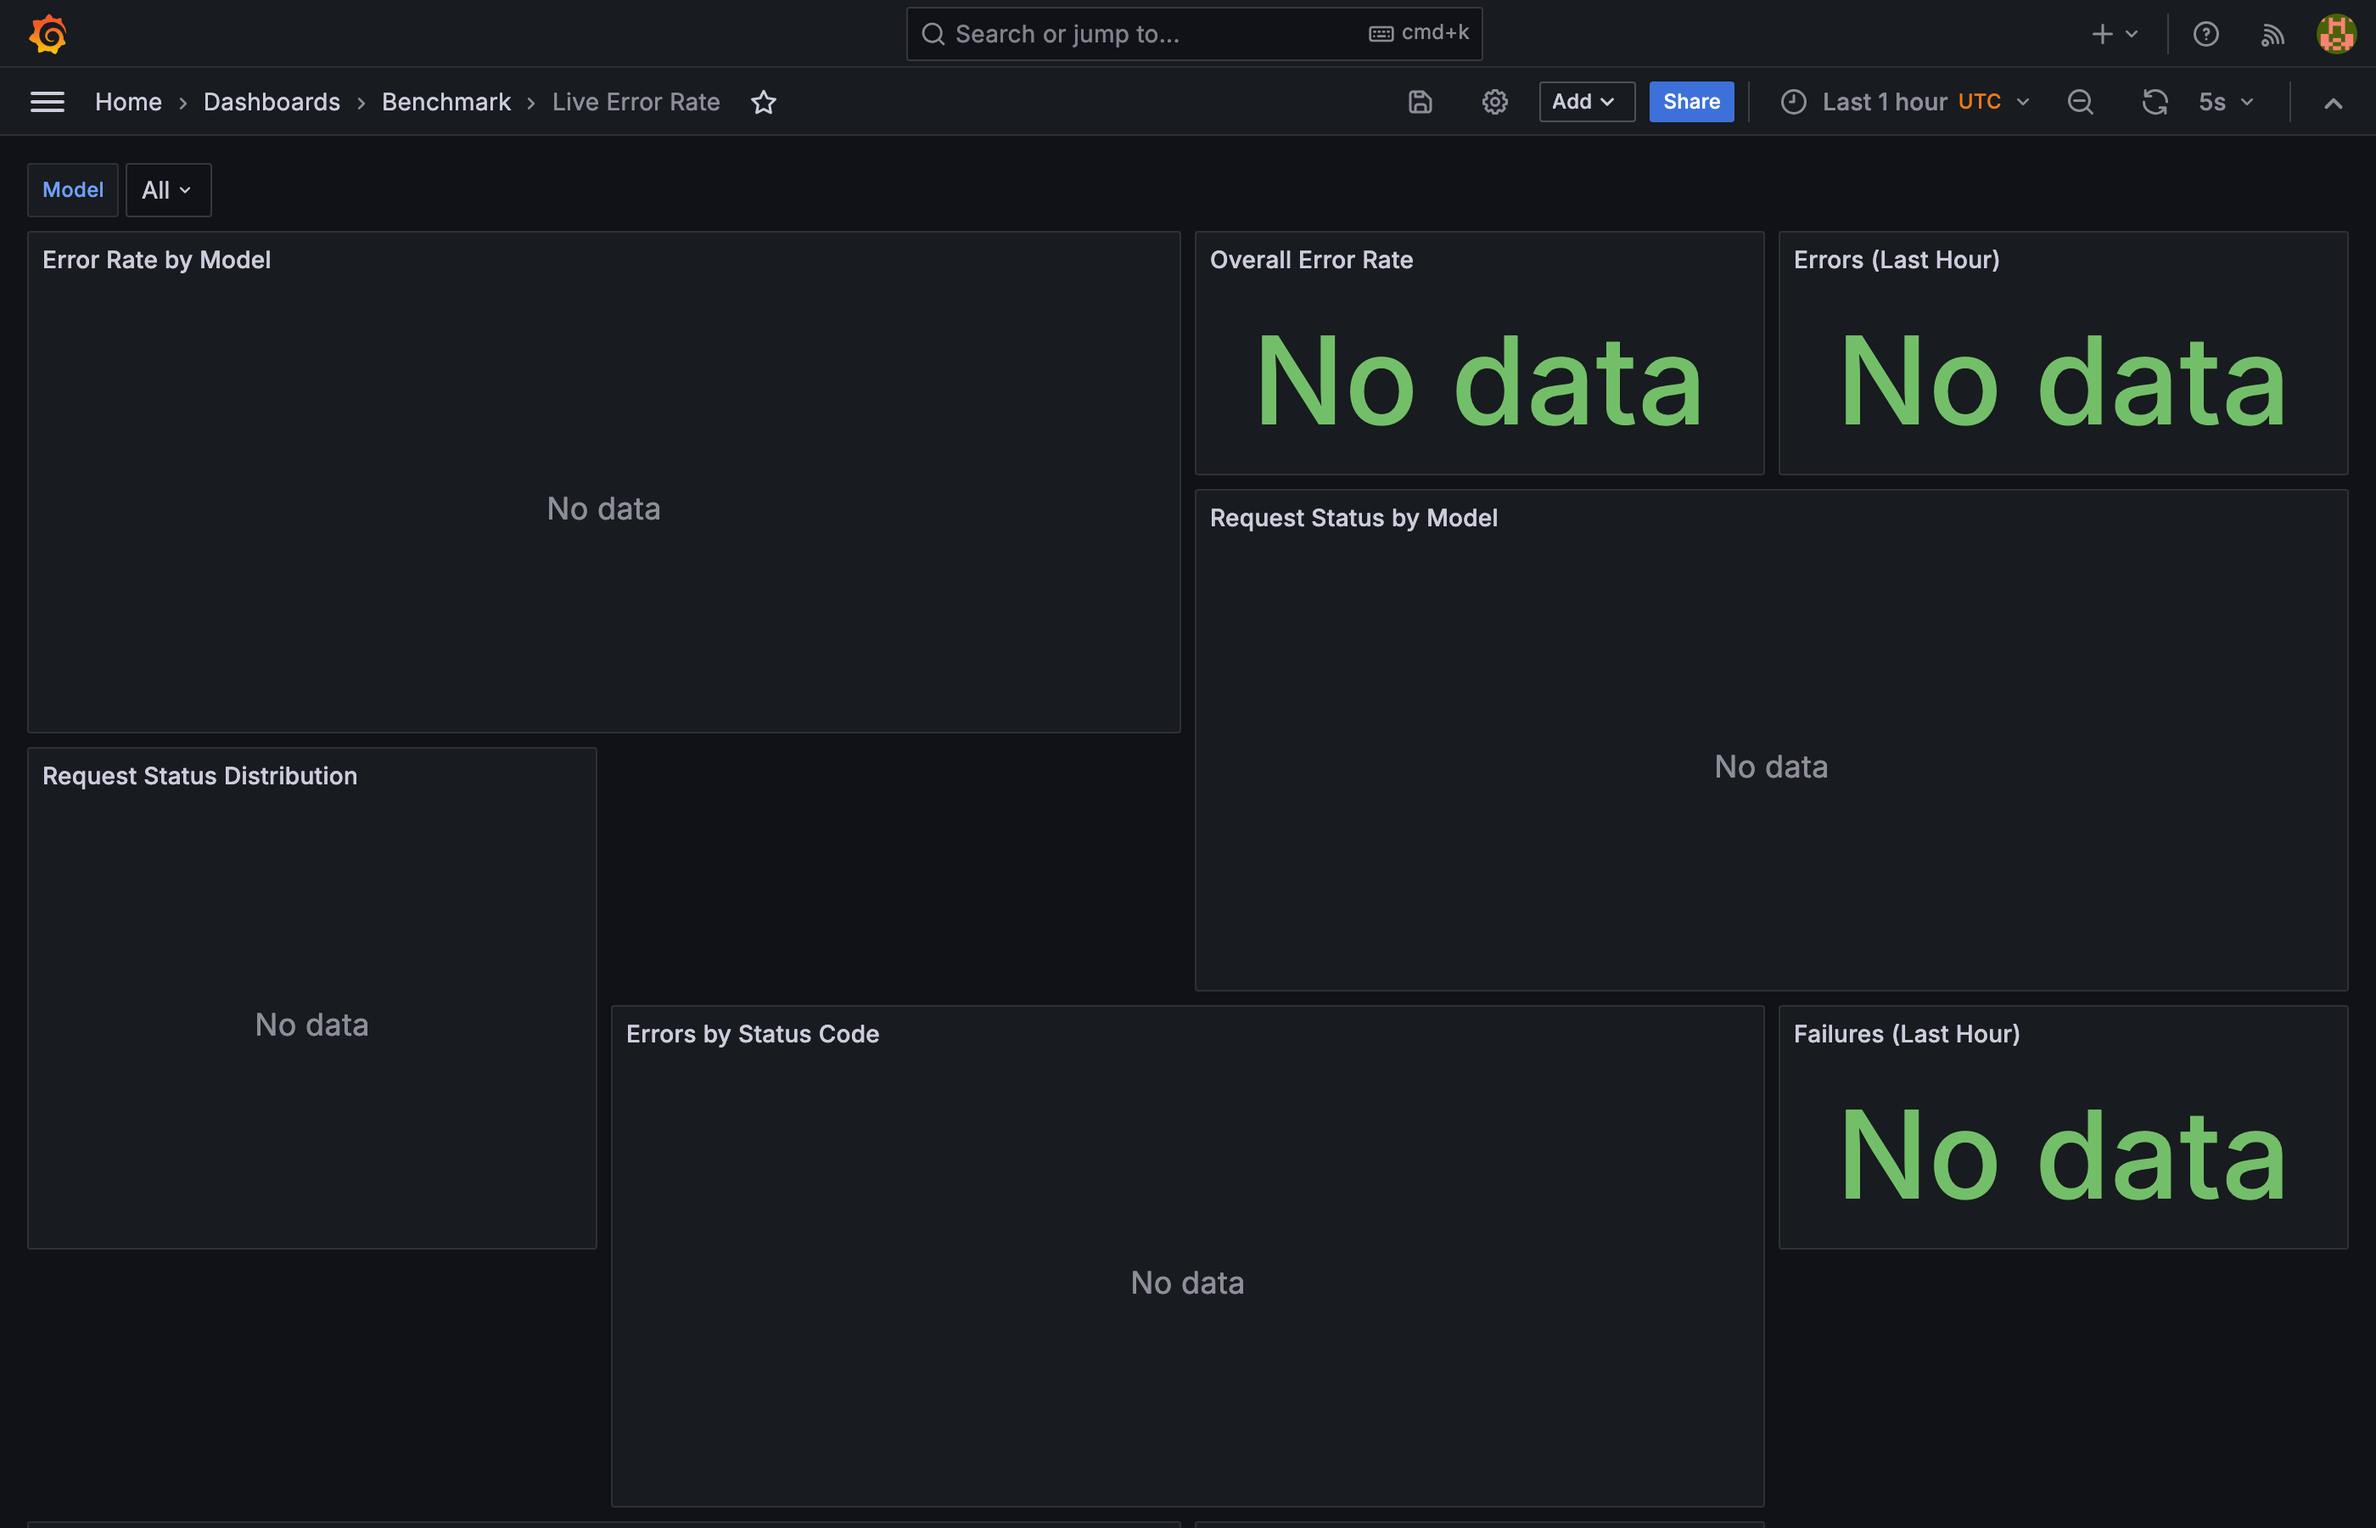
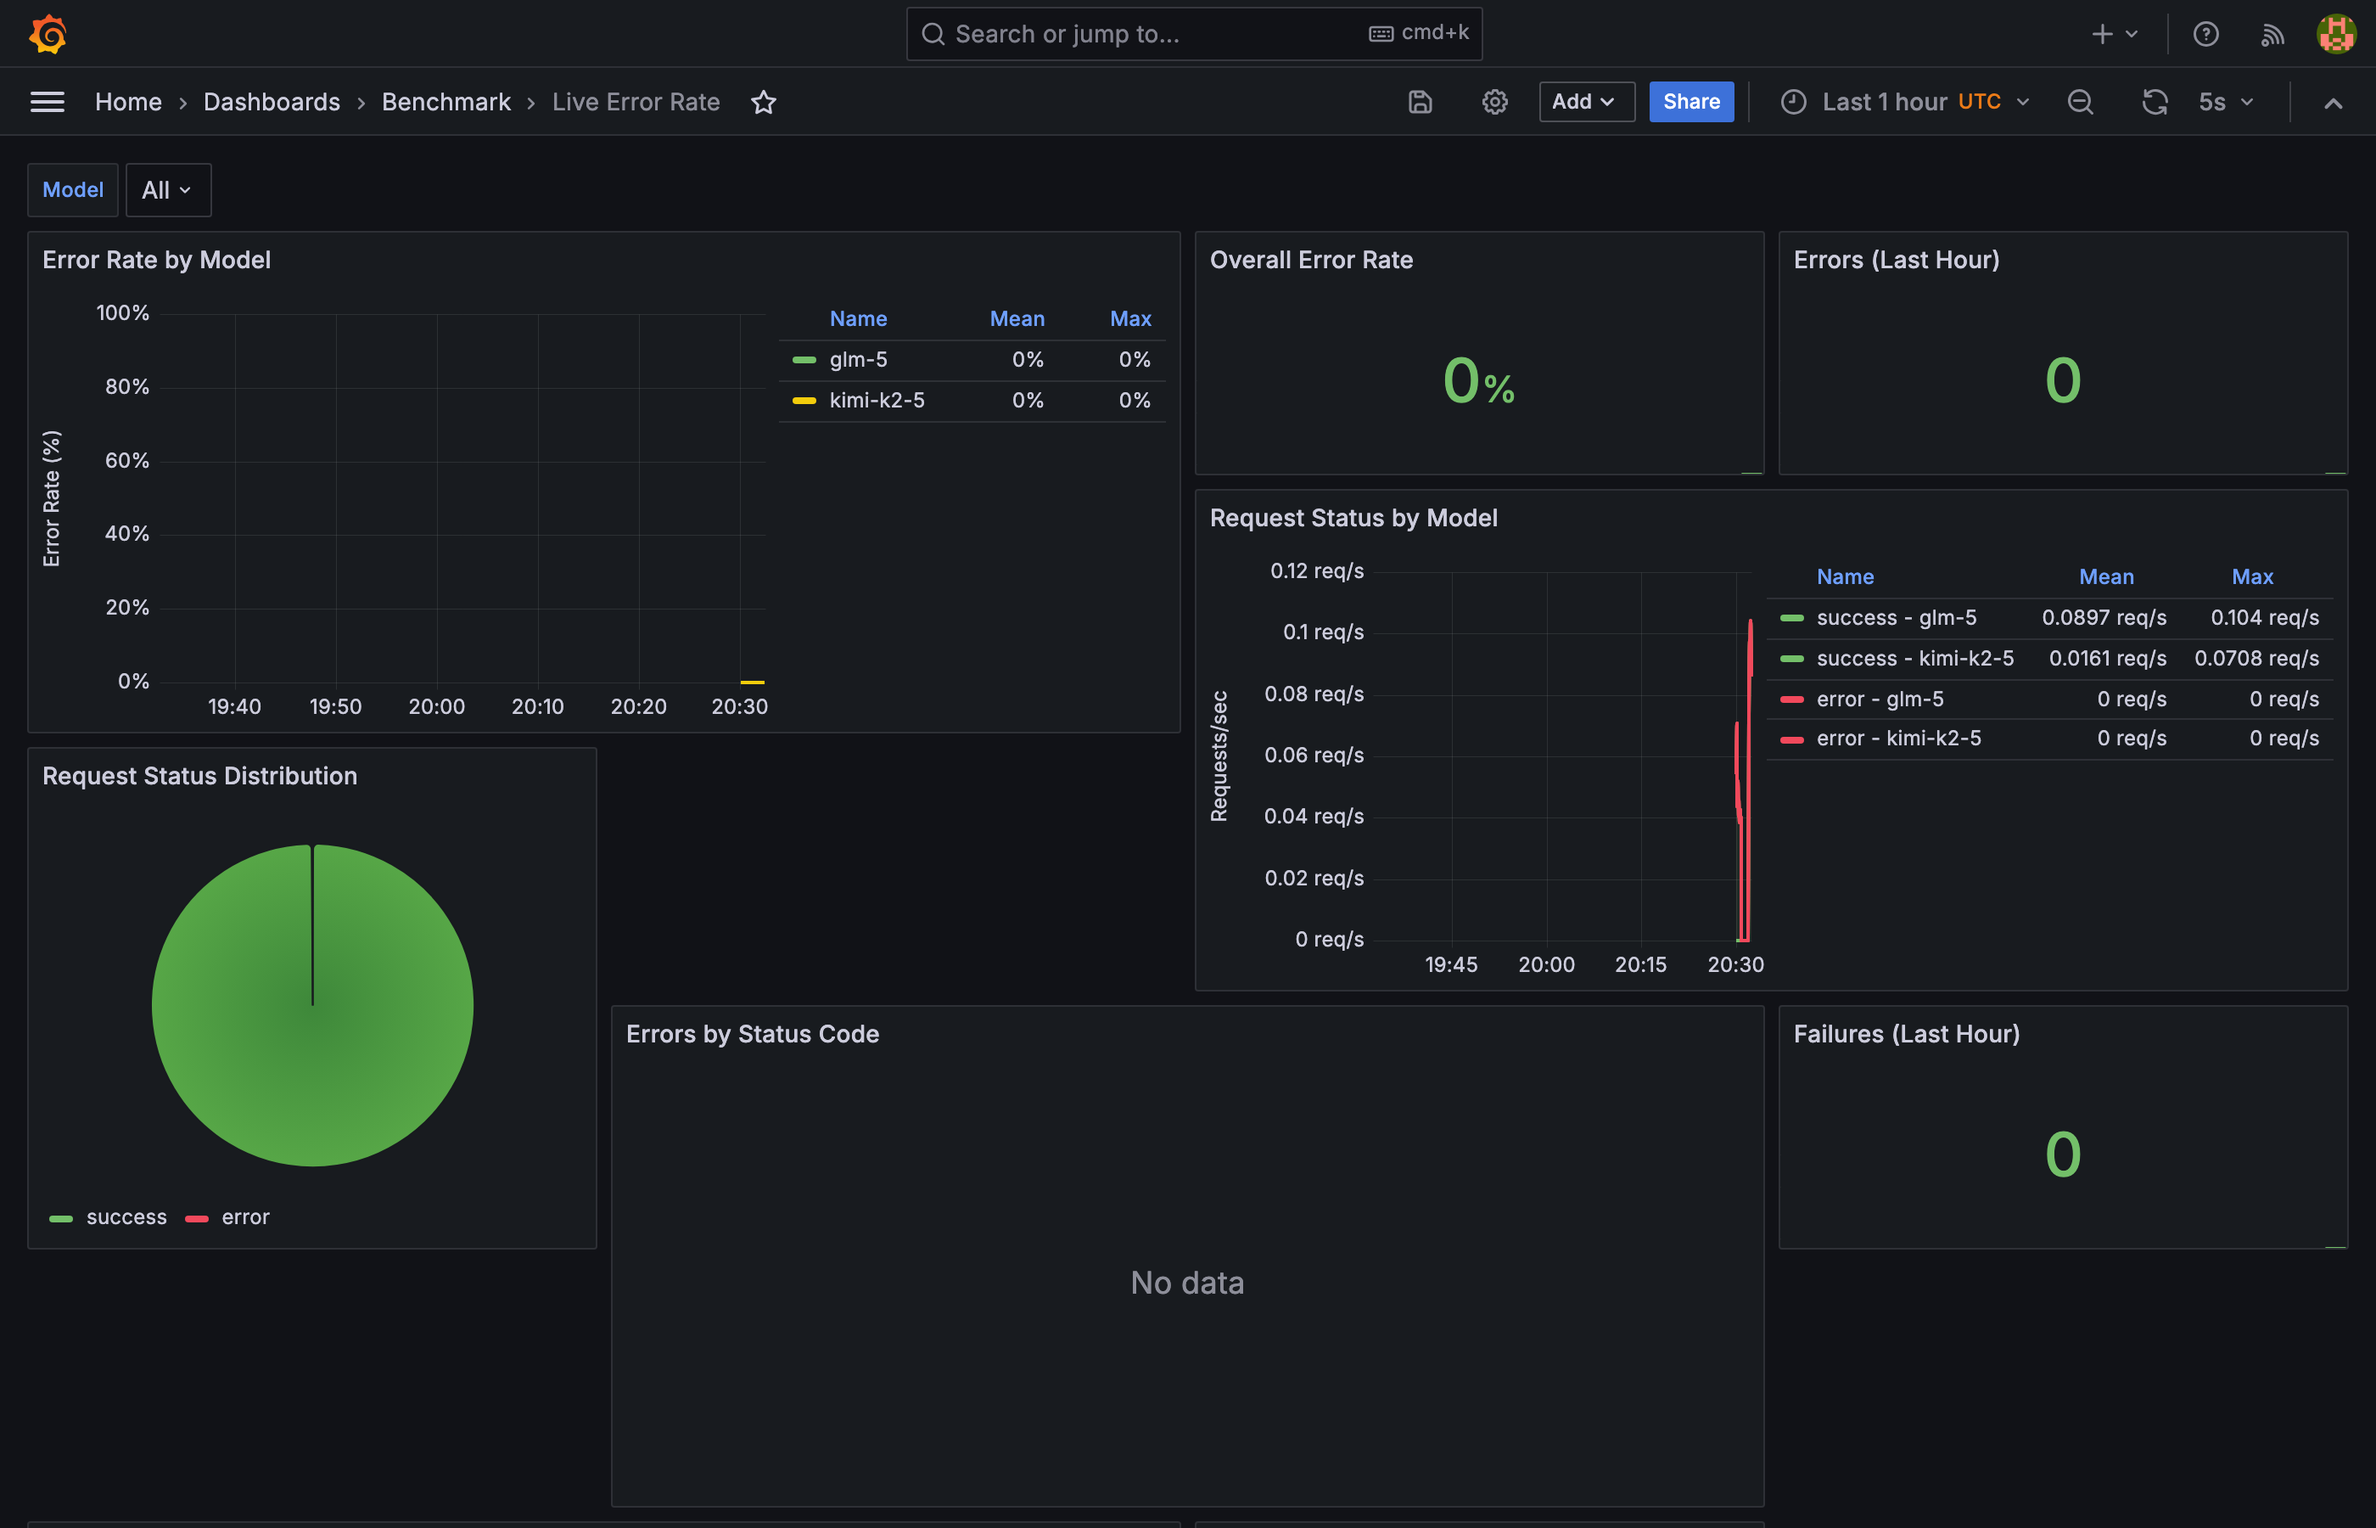
fix: address PR review feedback - remove hardcoded credentials, add playwright dep, capture screenshots with real traffic
- Remove hardcoded credential defaults per AGENTS.md security policy
- Require GRAFANA_URL, GRAFANA_USERNAME, GRAFANA_PASSWORD env vars
- Add playwright to dev dependencies in pyproject.toml
- Recapture all screenshots after generating real LiteLLM traffic
- All 4 dashboards now show actual metrics from test requests

diff --git a/scripts/capture_grafana_screenshots.py b/scripts/capture_grafana_screenshots.py
@@ -13,10 +13,16 @@ from playwright.sync_api import sync_playwright
 def capture_grafana_screenshots():
     """Capture screenshots of the main Grafana dashboards."""
     
-    # Configuration - use environment variables with secure defaults
-    grafana_url = os.environ.get("GRAFANA_URL", "http://localhost:3000")
-    username = os.environ.get("GRAFANA_USERNAME", "admin")
-    password = os.environ.get("GRAFANA_PASSWORD", "admin")
+    # Configuration - require environment variables (no hardcoded defaults per AGENTS.md)
+    grafana_url = os.environ.get("GRAFANA_URL")
+    username = os.environ.get("GRAFANA_USERNAME")
+    password = os.environ.get("GRAFANA_PASSWORD")
+    
+    if not all([grafana_url, username, password]):
+        raise ValueError(
+            "GRAFANA_URL, GRAFANA_USERNAME, and GRAFANA_PASSWORD environment variables must be set. "
+            "See AGENTS.md: Secrets must never be committed, logged, or copied into artifacts."
+        )
     
     # Create output directory
     output_dir = Path(__file__).parent.parent / "docs" / "assets"
